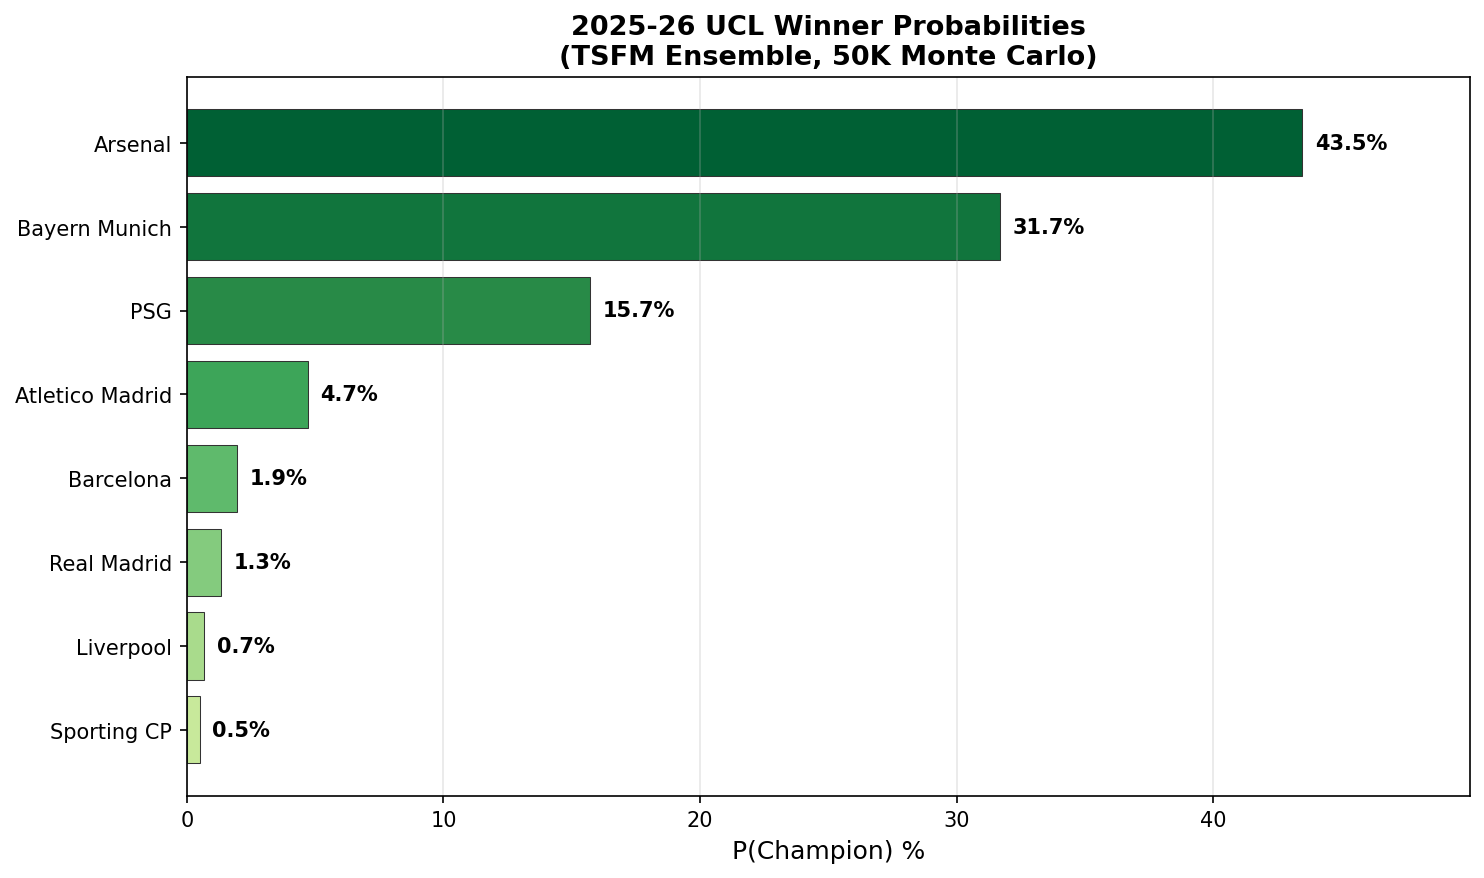
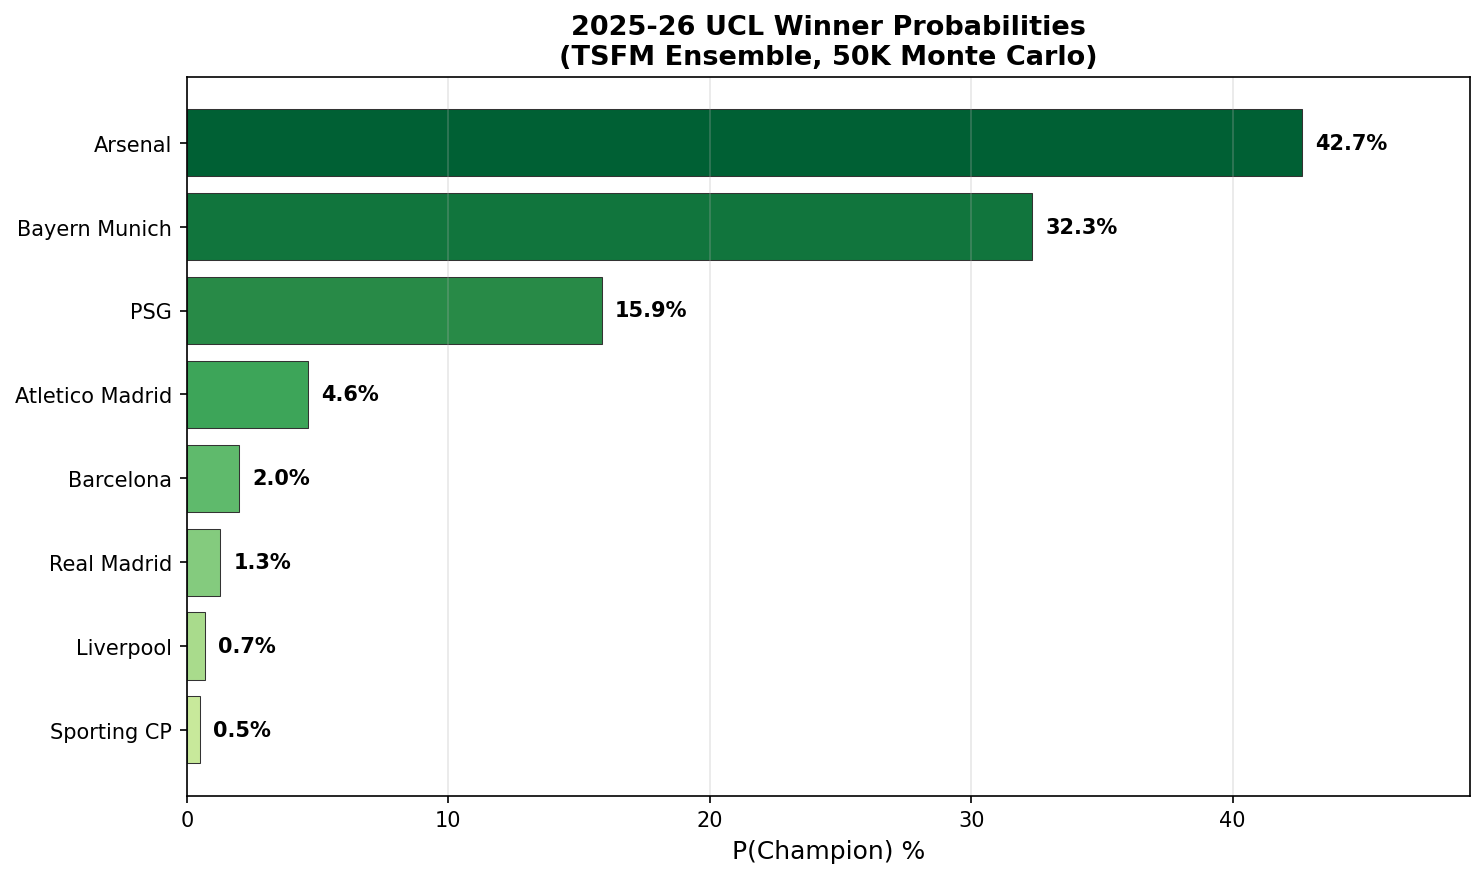
Refresh predictions for Apr 14 match day + fix edge-bar label overlap
- Ran full TSFM pipeline against today's Polymarket snapshot right
  before QF second legs kick off (QF3/QF4 tonight, QF1/QF2 tomorrow)
- README now shows Apr 14 ensemble numbers: Arsenal 42.7% (edge +17.2%
  vs Polymarket 25.5%), Bayern climbed to 32.3% (+0.8%, essentially at
  market), PSG 15.9% (-5.6%), Atletico still the biggest QF-advance
  edge at +14.6% vs 72.0% market
- All 5 auto-generated plots (bracket, champion bars, AI-vs-market
  scatter+bars, edge bars) regenerated end-to-end from the same TSFM
  ensemble CSV so every number on every chart matches
- visualization/odds_comparison.py: edge-bar labels were colliding
  with team-name axis labels for negative edges (e.g. Barcelona ran
  through '-5.6%'). Switched to bar-tip-aligned labels that always
  sit on the outer side of zero, with wider x-axis so both extremes
  breathe. Colors also darkened slightly for IG-readability.

Sanity check:
- 53 tests pass
- Layer 1 backtest unchanged (63.9% hit rate, p=0.0058)
- Layer 2 backtest unchanged (TSFM still adds ~0 signal)
- Ensemble CSV, edges CSVs, and chart values all mutually consistent

diff --git a/visualization/odds_comparison.py b/visualization/odds_comparison.py
@@ -124,25 +124,39 @@ def plot_edge_bars(
 
     df = edges_df.sort_values("edge_pct", ascending=True)
 
-    fig, ax = plt.subplots(figsize=(10, max(4, len(df) * 0.8)))
+    fig, ax = plt.subplots(figsize=(11, max(4, len(df) * 0.8)))
 
     colors = ["#2e7d32" if e > 0 else "#c62828" for e in df["edge_pct"]]
-    bars = ax.barh(df["team"], df["edge_pct"], color=colors, edgecolor="#333", linewidth=0.5)
+    bars = ax.barh(df["team"], df["edge_pct"], color=colors,
+                   edgecolor="#333", linewidth=0.5)
+
+    max_abs = max(df["edge_pct"].abs().max(), 1.0)
+    pad = max_abs * 0.06
 
     for bar, (_, row) in zip(bars, df.iterrows()):
         w = bar.get_width()
-        offset = 0.5 if w >= 0 else -0.5
-        ha = "left" if w >= 0 else "right"
         label = f"{row['edge_pct']:+.1f}%"
         if row["strength"] == "STRONG EDGE":
             label += " ★"
-        ax.text(w + offset, bar.get_y() + bar.get_height()/2,
-                label, va="center", ha=ha, fontsize=10, fontweight="bold")
+        # Always place the numeric label just BEYOND the bar's tip,
+        # on the same side as the bar's direction. Never overlaps the
+        # team-name axis label, which lives on the other side of zero.
+        if w >= 0:
+            ax.text(w + pad, bar.get_y() + bar.get_height() / 2,
+                    label, va="center", ha="left",
+                    fontsize=10, fontweight="bold", color="#1b5e20")
+        else:
+            ax.text(w - pad, bar.get_y() + bar.get_height() / 2,
+                    label, va="center", ha="right",
+                    fontsize=10, fontweight="bold", color="#b71c1c")
 
-    ax.axvline(0, color="black", linewidth=0.5)
+    # Expand x-axis so labels always fit
+    ax.set_xlim(-max_abs * 1.35, max_abs * 1.35)
+    ax.axvline(0, color="black", linewidth=0.8)
     ax.set_xlabel("Edge (percentage points)", fontsize=12)
     ax.set_title(title, fontsize=13, fontweight="bold")
     ax.grid(axis="x", alpha=0.3)
+    ax.tick_params(axis="y", labelsize=11)
 
     plt.tight_layout()
     fig.savefig(save_path, dpi=150, bbox_inches="tight", facecolor="white")

diff --git a/README.md b/README.md
@@ -8,63 +8,64 @@ Uses **TSFM + Club Elo + xG first-leg adjustment + injury-weighted Elo + Poisson
 
 Sister projects: [worldcup-oracle](../worldcup-oracle) | [fin-forecast-arena](../fin-forecast-arena)
 
-## Predictions (April 13, 2026 — Real xG + Injury Adjusted)
+## Predictions (April 14, 2026 — QF Second-Leg Match Day)
 
-Model applies two Elo adjustments before Monte Carlo: (1) first-leg xG performance residual (now using **real per-shot xG from FotMob shotmap**), (2) per-player injury penalties weighted by market value × expected availability. QF aggregates still use actual goals.
+Final pre-match predictions before the QF second legs (QF3 & QF4 tonight; QF1 & QF2 tomorrow). Model applies two Elo adjustments before Monte Carlo: (1) first-leg xG performance residual (real per-shot xG pulled live from FotMob shotmap), (2) per-player injury penalties weighted by market value × expected availability. QF aggregates still use actual goals from the first legs.
 
 ### UCL Winner Probabilities
 
 | Rank | Team | AI Win% | Polymarket | Edge | Signal |
 |------|------|---------|------------|------|--------|
-| 1 | **Arsenal** | **43.5%** | 25.5% | **+18.0%** | **STRONG BUY** |
-| 2 | Bayern Munich | 31.7% | 31.5% | +0.2% | — |
-| 3 | PSG | 15.7% | 22.5% | -6.8% | **STRONG SELL** |
-| 4 | Atletico Madrid | 4.7% | 7.1% | -2.4% | — |
-| 5 | Barcelona | 1.9% | 6.9% | -5.0% | SELL |
-| 6 | Real Madrid | 1.3% | 4.8% | -3.4% | SELL |
-| 7 | Liverpool | 0.7% | 2.0% | -1.3% | — |
-| 8 | Sporting CP | 0.5% | 0.8% | -0.3% | — |
+| 1 | **Arsenal** | **42.7%** | 25.5% | **+17.2%** | **STRONG BUY** |
+| 2 | Bayern Munich | 32.3% | 31.5% | +0.8% | — |
+| 3 | PSG | 15.9% | 21.5% | -5.6% | **STRONG SELL** |
+| 4 | Atletico Madrid | 4.6% | 7.1% | -2.5% | — |
+| 5 | Barcelona | 2.0% | 7.6% | -5.6% | **STRONG SELL** |
+| 6 | Real Madrid | 1.3% | 5.3% | -4.1% | SELL |
+| 7 | Liverpool | 0.7% | 2.1% | -1.4% | — |
+| 8 | Sporting CP | 0.5% | 0.7% | -0.2% | — |
 
 ### QF Advancement Probabilities (Who Reaches Semis?)
 
 | Team | AI Adv% | Polymarket | Edge | Signal |
 |------|---------|------------|------|--------|
-| Arsenal | **95.7%** | 90.5% | **+5.2%** | **STRONG BUY** |
-| **Bayern Munich** | **91.7%** | **84.5%** | **+7.2%** | **STRONG BUY** |
-| PSG | 90.0% | 87.5% | +2.5% | — |
-| **Atletico Madrid** | **86.9%** | **72.0%** | **+14.9%** | **STRONG BUY** |
-| **Barcelona** | **13.1%** | **28.0%** | **-14.9%** | **STRONG SELL** |
-| Liverpool | 10.0% | 12.5% | -2.5% | — |
-| **Real Madrid** | **8.3%** | **15.5%** | **-7.2%** | **STRONG SELL** |
-| **Sporting CP** | **4.3%** | **10.5%** | **-6.2%** | **STRONG SELL** |
+| Arsenal | **95.5%** | 89.5% | **+6.0%** | **STRONG BUY** |
+| **Bayern Munich** | **91.9%** | **84.0%** | **+7.9%** | **STRONG BUY** |
+| PSG | 89.9% | 87.5% | +2.4% | — |
+| **Atletico Madrid** | **86.6%** | **72.0%** | **+14.6%** | **STRONG BUY** |
+| **Barcelona** | **13.4%** | **30.5%** | **-17.1%** | **STRONG SELL** |
+| Liverpool | 10.1% | 12.5% | -2.4% | — |
+| **Real Madrid** | **8.1%** | **16.0%** | **-7.9%** | **STRONG SELL** |
+| **Sporting CP** | **4.5%** | **10.5%** | **-6.0%** | **STRONG SELL** |
 
 ### Per-Model Breakdown (P(Champion))
 
 | Team | Chronos-2 | TimesFM-2.5 | FlowState | Elo Baseline | **Ensemble** |
 |------|-----------|-------------|-----------|-------------|:------------|
-| Arsenal | 43.6% | 43.7% | 43.9% | 42.7% | **43.5%** |
-| Bayern Munich | 31.7% | 31.7% | 31.2% | 32.2% | **31.7%** |
-| PSG | 15.5% | 15.4% | 15.9% | 16.1% | **15.7%** |
-| Atletico Madrid | 4.5% | 4.5% | 4.4% | 5.4% | **4.7%** |
-| Barcelona | 2.1% | 2.1% | 2.2% | 1.3% | **1.9%** |
-| Real Madrid | 1.4% | 1.3% | 1.3% | 1.3% | **1.3%** |
-| Liverpool | 0.7% | 0.7% | 0.7% | 0.6% | **0.7%** |
+| Arsenal | 42.9% | 43.0% | 42.8% | 42.1% | **42.7%** |
+| Bayern Munich | 32.1% | 32.2% | 32.7% | 32.4% | **32.3%** |
+| PSG | 15.9% | 15.9% | 15.8% | 16.0% | **15.9%** |
+| Atletico Madrid | 4.6% | 4.6% | 4.5% | 4.7% | **4.6%** |
+| Barcelona | 2.1% | 2.1% | 2.0% | 1.9% | **2.0%** |
+| Real Madrid | 1.3% | 1.3% | 1.2% | 1.3% | **1.3%** |
+| Liverpool | 0.7% | 0.7% | 0.7% | 0.7% | **0.7%** |
 | Sporting CP | 0.5% | 0.5% | 0.5% | 0.5% | **0.5%** |
 
 ## Biggest Edges
 
 | Team | Market | AI | Mkt | Edge | Kelly | Signal |
 |------|--------|-----|------|------|-------|--------|
-| Arsenal | Winner | 43.5% | 25.5% | +18.0% | 12.1% | **STRONG BUY** |
-| Atletico Madrid | QF Adv | 86.9% | 72.0% | +14.9% | 26.7% | **STRONG BUY** |
-| Barcelona | QF Adv | 13.1% | 28.0% | -14.9% | — | **STRONG SELL** |
-| Bayern Munich | QF Adv | 91.7% | 84.5% | +7.2% | 23.2% | **STRONG BUY** |
-| Real Madrid | QF Adv | 8.3% | 15.5% | -7.2% | — | **STRONG SELL** |
-| PSG | Winner | 15.7% | 22.5% | -6.8% | — | **STRONG SELL** |
-| Sporting CP | QF Adv | 4.3% | 10.5% | -6.2% | — | **STRONG SELL** |
-| Arsenal | QF Adv | 95.7% | 90.5% | +5.2% | 27.2% | **STRONG BUY** |
+| Arsenal | Winner | 42.7% | 25.5% | +17.2% | 11.5% | **STRONG BUY** |
+| Barcelona | QF Adv | 13.4% | 30.5% | -17.1% | — | **STRONG SELL** |
+| Atletico Madrid | QF Adv | 86.6% | 72.0% | +14.6% | 26.0% | **STRONG BUY** |
+| Bayern Munich | QF Adv | 91.9% | 84.0% | +7.9% | 24.7% | **STRONG BUY** |
+| Real Madrid | QF Adv | 8.1% | 16.0% | -7.9% | — | **STRONG SELL** |
+| Arsenal | QF Adv | 95.5% | 89.5% | +6.0% | 27.3% | **STRONG BUY** |
+| Sporting CP | QF Adv | 4.5% | 10.5% | -6.0% | — | **STRONG SELL** |
+| Barcelona | Winner | 2.0% | 7.6% | -5.6% | — | **STRONG SELL** |
+| PSG | Winner | 15.9% | 21.5% | -5.6% | — | **STRONG SELL** |
 
-### Real xG from FotMob (extracted Apr 13 via Playwright + residential proxy)
+### Real xG from FotMob (extracted via Playwright + residential proxy)
 
 | Leg | Match | Score | xG | xG Delta vs Placeholder |
 |-----|-------|-------|-----|-------------------------|
